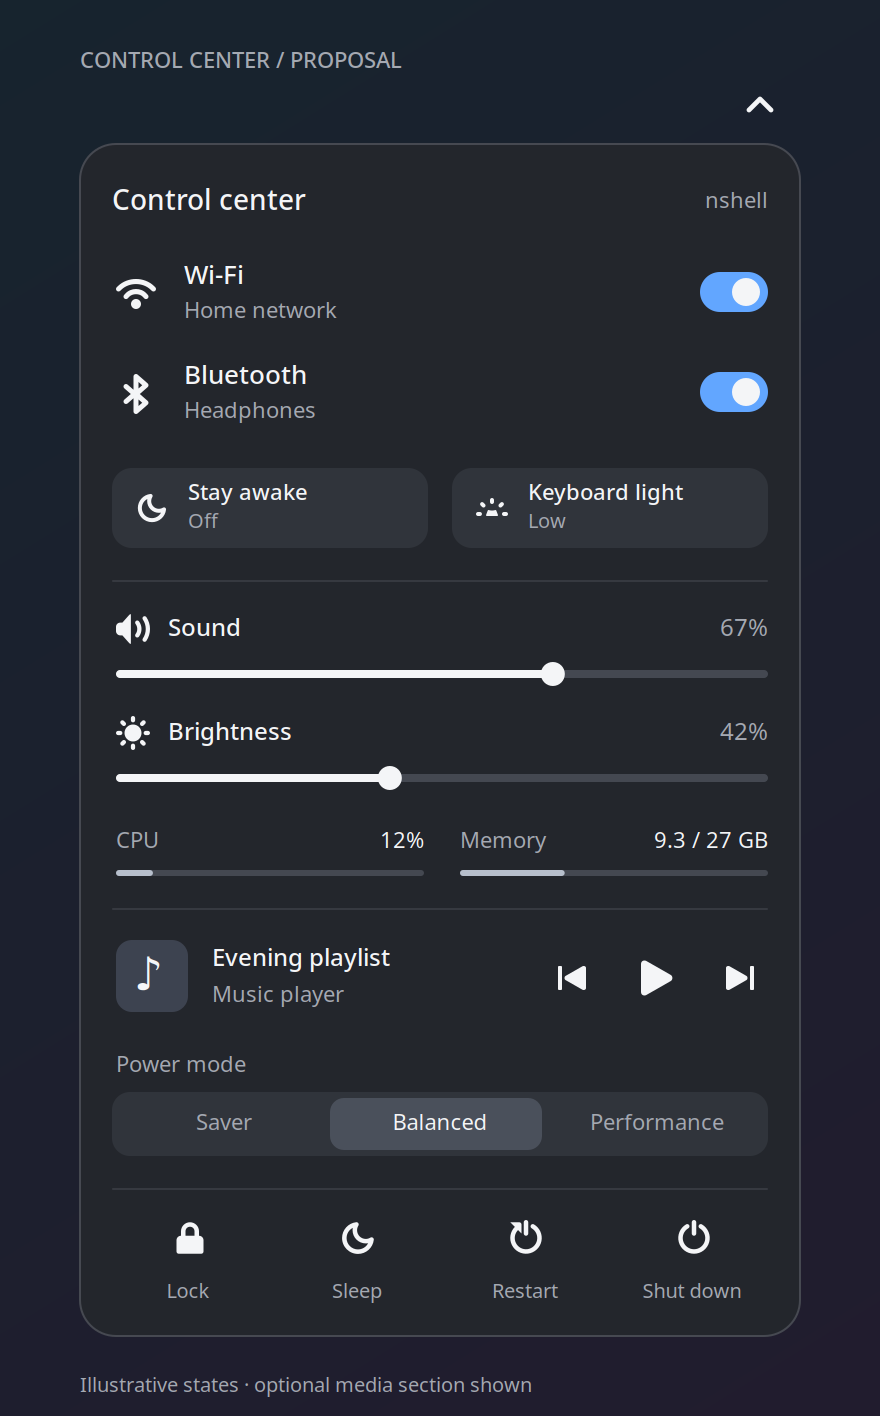
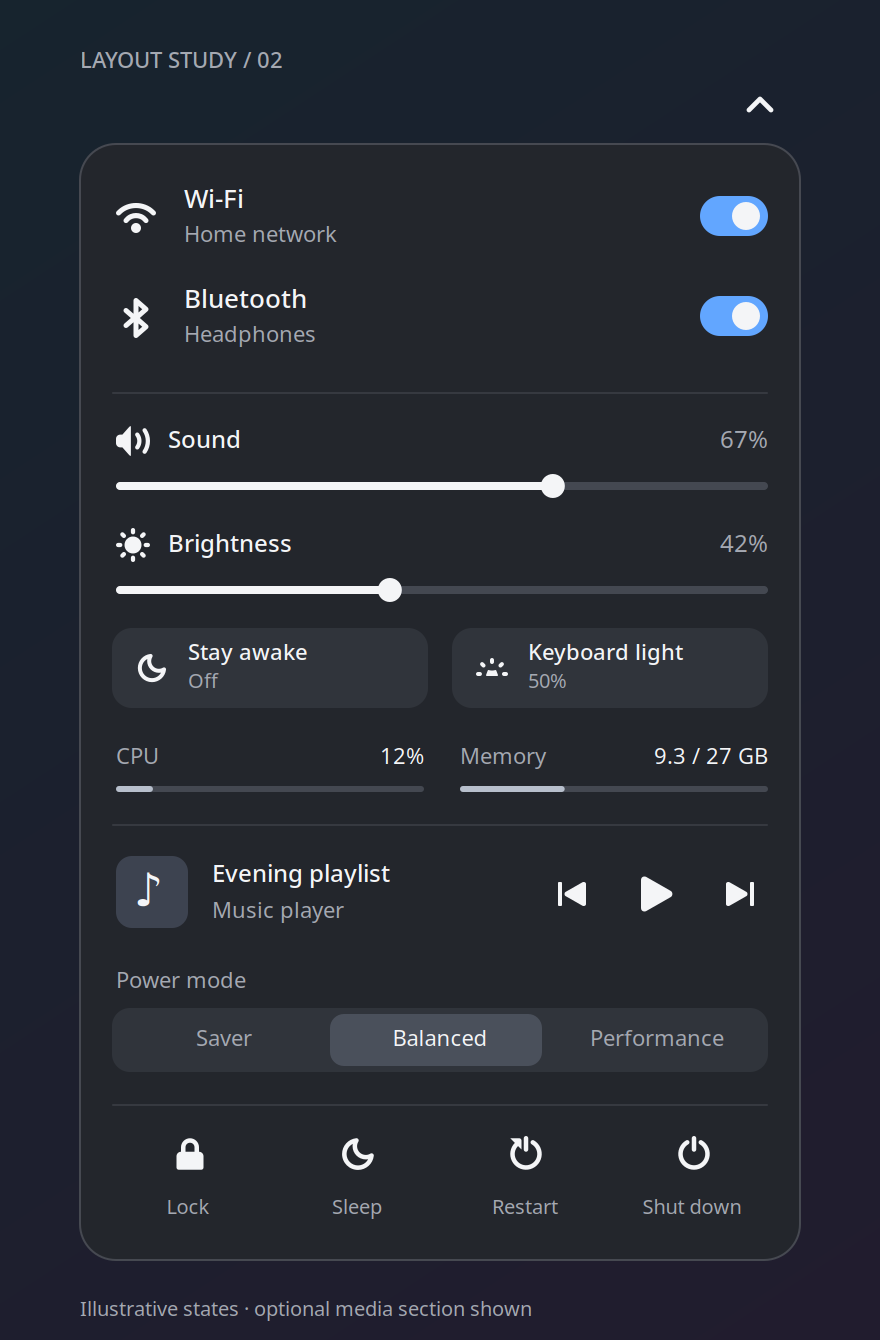
Refine control center layout and keyboard light states

diff --git a/design/control-center-studies/generate.py b/design/control-center-studies/generate.py
@@ -17,7 +17,7 @@ HERE = Path(__file__).resolve().parent
 ICON_DIR = Path("/usr/share/icons/Adwaita/symbolic")
 ICONS = {path.stem: path for path in ICON_DIR.rglob("*.svg")}
 SCALE = 2
-surface = cairo.ImageSurface(cairo.FORMAT_ARGB32, 440 * SCALE, 708 * SCALE)
+surface = cairo.ImageSurface(cairo.FORMAT_ARGB32, 440 * SCALE, 670 * SCALE)
 c = cairo.Context(surface)
 c.scale(SCALE, SCALE)
 WHITE, MUTED, BLUE = "f4f5f7", "a5a9b2", "62a6ff"
@@ -100,12 +100,12 @@ def slider(y, glyph, label, value):
     box(58 + 326*value/100 - 6, y+25, 12, 12, 6, WHITE)
 
 
-gradient = cairo.LinearGradient(0, 0, 440, 708)
+gradient = cairo.LinearGradient(0, 0, 440, 670)
 gradient.add_color_stop_rgb(0, .09, .14, .18)
 gradient.add_color_stop_rgb(1, .13, .11, .18)
 c.set_source(gradient)
 c.paint()
-text("CONTROL CENTER / PROPOSAL", 40, 22, 11, MUTED, "Medium")
+text("LAYOUT STUDY / 02", 40, 22, 11, MUTED, "Medium")
 # A static sample of the topbar anchor, showing the open state.
 color(WHITE)
 c.set_line_width(2.4)
@@ -116,56 +116,54 @@ c.line_to(380, 49.5)
 c.line_to(385.5, 55)
 c.stroke()
 
-box(40, 72, 360, 596, 18, "23262c", "464951")
-text("Control center", 56, 90, 14, weight="Medium")
-text("nshell", 330, 92, 11, MUTED, width=54, align=Pango.Alignment.RIGHT)
+box(40, 72, 360, 558, 18, "23262c", "464951")
 
-connection(126, "network-wireless", "Wi-Fi", "Home network")
-connection(176, "bluetooth", "Bluetooth", "Headphones")
+connection(88, "network-wireless", "Wi-Fi", "Home network")
+connection(138, "bluetooth", "Bluetooth", "Headphones")
 
-box(56, 234, 158, 40, 10, "30343b")
-box(226, 234, 158, 40, 10, "30343b")
-icon("weather-clear-night", 68, 246, 16)
-text("Stay awake", 94, 238, 11, weight="Medium")
-text("Off", 94, 253, 10, MUTED)
-icon("keyboard-brightness", 238, 246, 16)
-text("Keyboard light", 264, 238, 11, weight="Medium")
-text("Low", 264, 253, 10, MUTED)
+divider(196)
+slider(212, "audio-volume-high", "Sound", 67)
+slider(264, "display-brightness", "Brightness", 42)
 
-divider(290)
-slider(306, "audio-volume-high", "Sound", 67)
-slider(358, "display-brightness", "Brightness", 42)
+box(56, 314, 158, 40, 10, "30343b")
+box(226, 314, 158, 40, 10, "30343b")
+icon("weather-clear-night", 68, 326, 16)
+text("Stay awake", 94, 318, 11, weight="Medium")
+text("Off", 94, 333, 10, MUTED)
+icon("keyboard-brightness", 238, 326, 16)
+text("Keyboard light", 264, 318, 11, weight="Medium")
+text("50%", 264, 333, 10, MUTED)
 
 for x, label, value, percent in [(58, "CPU", "12%", .12), (230, "Memory", "9.3 / 27 GB", .34)]:
-    text(label, x, 412, 11, MUTED)
-    text(value, x+54, 412, 11, width=100, align=Pango.Alignment.RIGHT)
-    box(x, 435, 154, 3, 1.5, "444851")
-    box(x, 435, 154*percent, 3, 1.5, "b7bfcc")
+    text(label, x, 370, 11, MUTED)
+    text(value, x+54, 370, 11, width=100, align=Pango.Alignment.RIGHT)
+    box(x, 393, 154, 3, 1.5, "444851")
+    box(x, 393, 154*percent, 3, 1.5, "b7bfcc")
 
-divider(454)
-box(58, 470, 36, 36, 8, "3d4350")
-text("♪", 67, 473, 23)
-text("Evening playlist", 106, 470, 12, weight="Medium", width=156)
-text("Music player", 106, 489, 11, MUTED, width=156)
-icon("media-skip-backward", 278, 481, 16)
-icon("media-playback-start", 318, 479, 20)
-icon("media-skip-forward", 362, 481, 16)
+divider(412)
+box(58, 428, 36, 36, 8, "3d4350")
+text("♪", 67, 431, 23)
+text("Evening playlist", 106, 428, 12, weight="Medium", width=156)
+text("Music player", 106, 447, 11, MUTED, width=156)
+icon("media-skip-backward", 278, 439, 16)
+icon("media-playback-start", 318, 437, 20)
+icon("media-skip-forward", 362, 439, 16)
 
-text("Power mode", 58, 524, 11, MUTED)
-box(56, 546, 328, 32, 9, "30343b")
-box(165, 549, 106, 26, 7, "4a505b")
+text("Power mode", 58, 482, 11, MUTED)
+box(56, 504, 328, 32, 9, "30343b")
+box(165, 507, 106, 26, 7, "4a505b")
 for x, label in [(58, "Saver"), (166, "Balanced"), (274, "Performance")]:
-    text(label, x, 553, 11, WHITE if label == "Balanced" else MUTED,
+    text(label, x, 511, 11, WHITE if label == "Balanced" else MUTED,
          width=108, align=Pango.Alignment.CENTER)
 
-divider(594)
+divider(552)
 for x, label, glyph in [(58, "Lock", "system-lock-screen"),
                          (142, "Sleep", "weather-clear-night"),
                          (226, "Restart", "system-reboot"),
                          (310, "Shut down", "system-shutdown")]:
-    icon(glyph, x+28, 610, 18)
-    text(label, x, 638, 10, MUTED, width=72, align=Pango.Alignment.CENTER)
+    icon(glyph, x+28, 568, 18)
+    text(label, x, 596, 10, MUTED, width=72, align=Pango.Alignment.CENTER)
 
-text("Illustrative states · optional media section shown", 40, 685, 10, MUTED)
+text("Illustrative states · optional media section shown", 40, 647, 10, MUTED)
 surface.write_to_png(str(HERE / "unified-panel.png"))
 print(HERE / "unified-panel.png")

diff --git a/design/control-center-studies/README.md b/design/control-center-studies/README.md
@@ -10,6 +10,11 @@ sliders, optional media, power profiles and session actions share one surface wi
 16 px outer padding, consistent text alignment and thin section separators. Power
 profiles use a quieter selected segment. No new navigation or actions are implied.
 
+Revision 02 removes the panel heading and branding. Sound and brightness sit above
+the secondary Stay awake / keyboard light controls. Keyboard light shows its actual
+percentage (50% or 100%, plus Off), retaining the existing click-to-cycle interaction;
+the sample shows 50%.
+
 Brightness and keyboard light remain conditional on hardware support; media remains
 conditional on an available player. Those sections are shown together here to
 review their spacing. A real implementation would retain the existing confirmation
